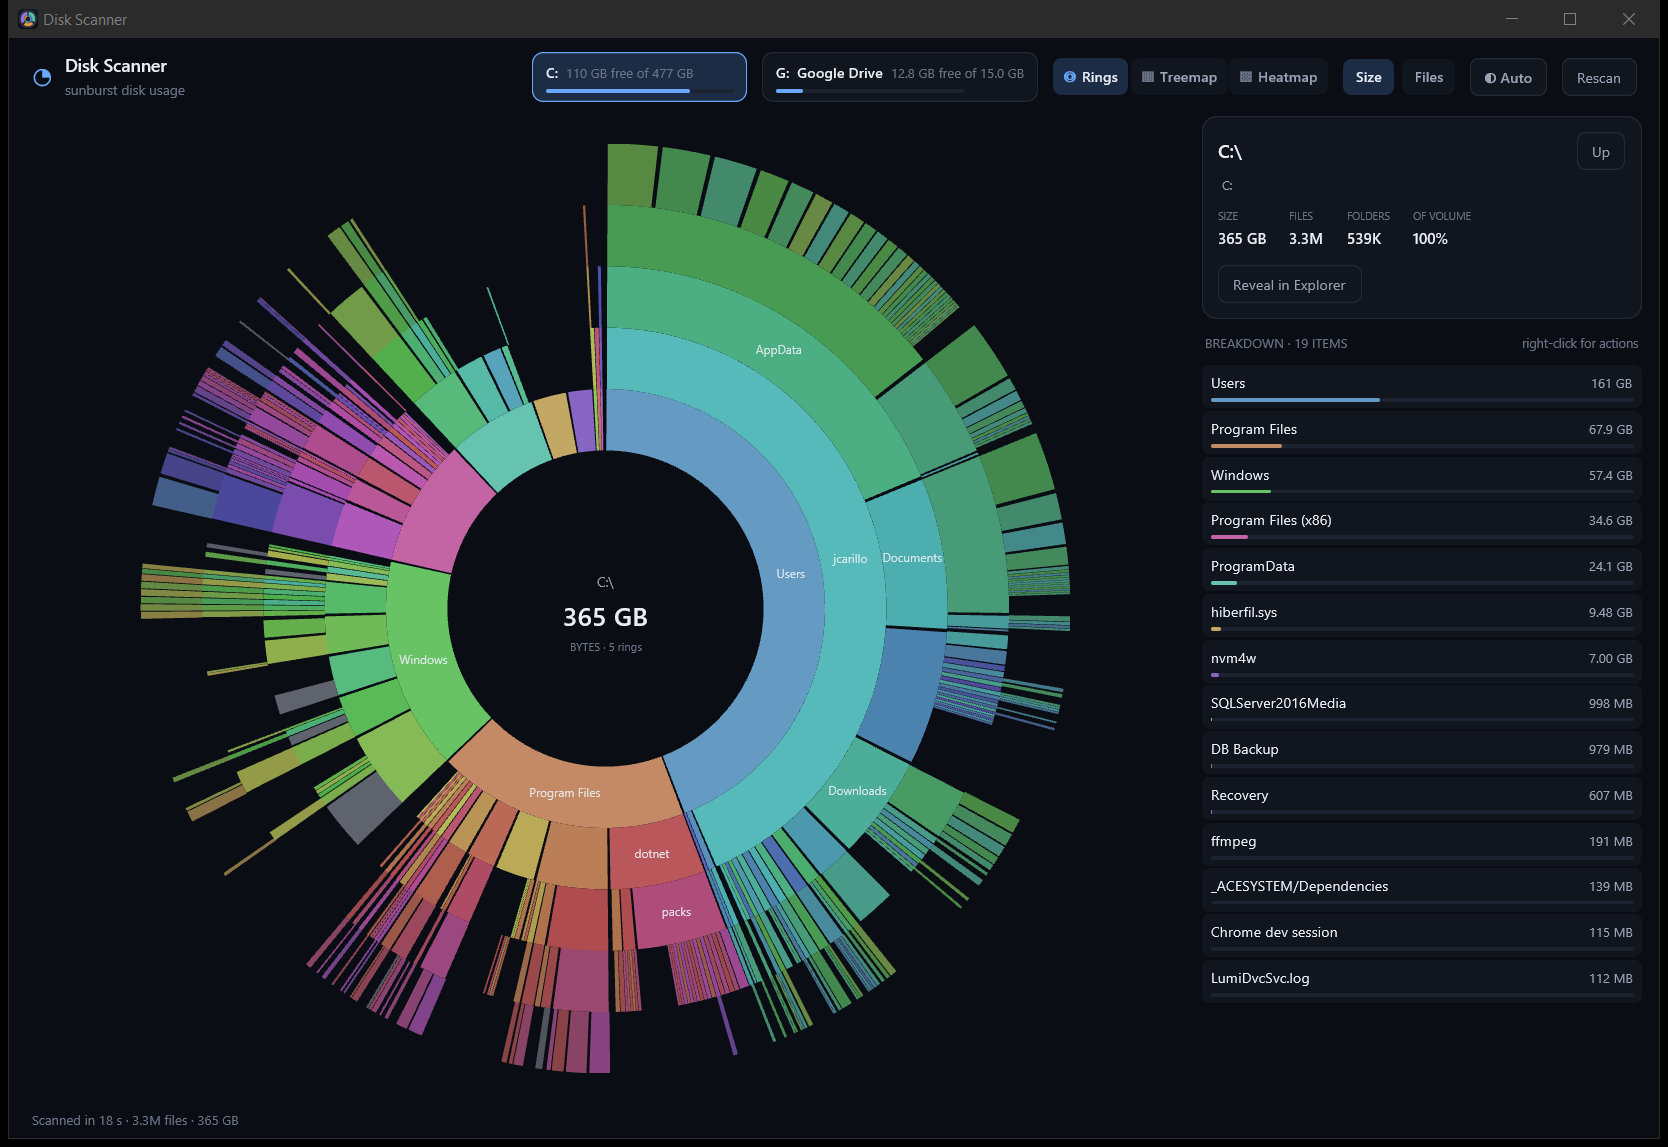
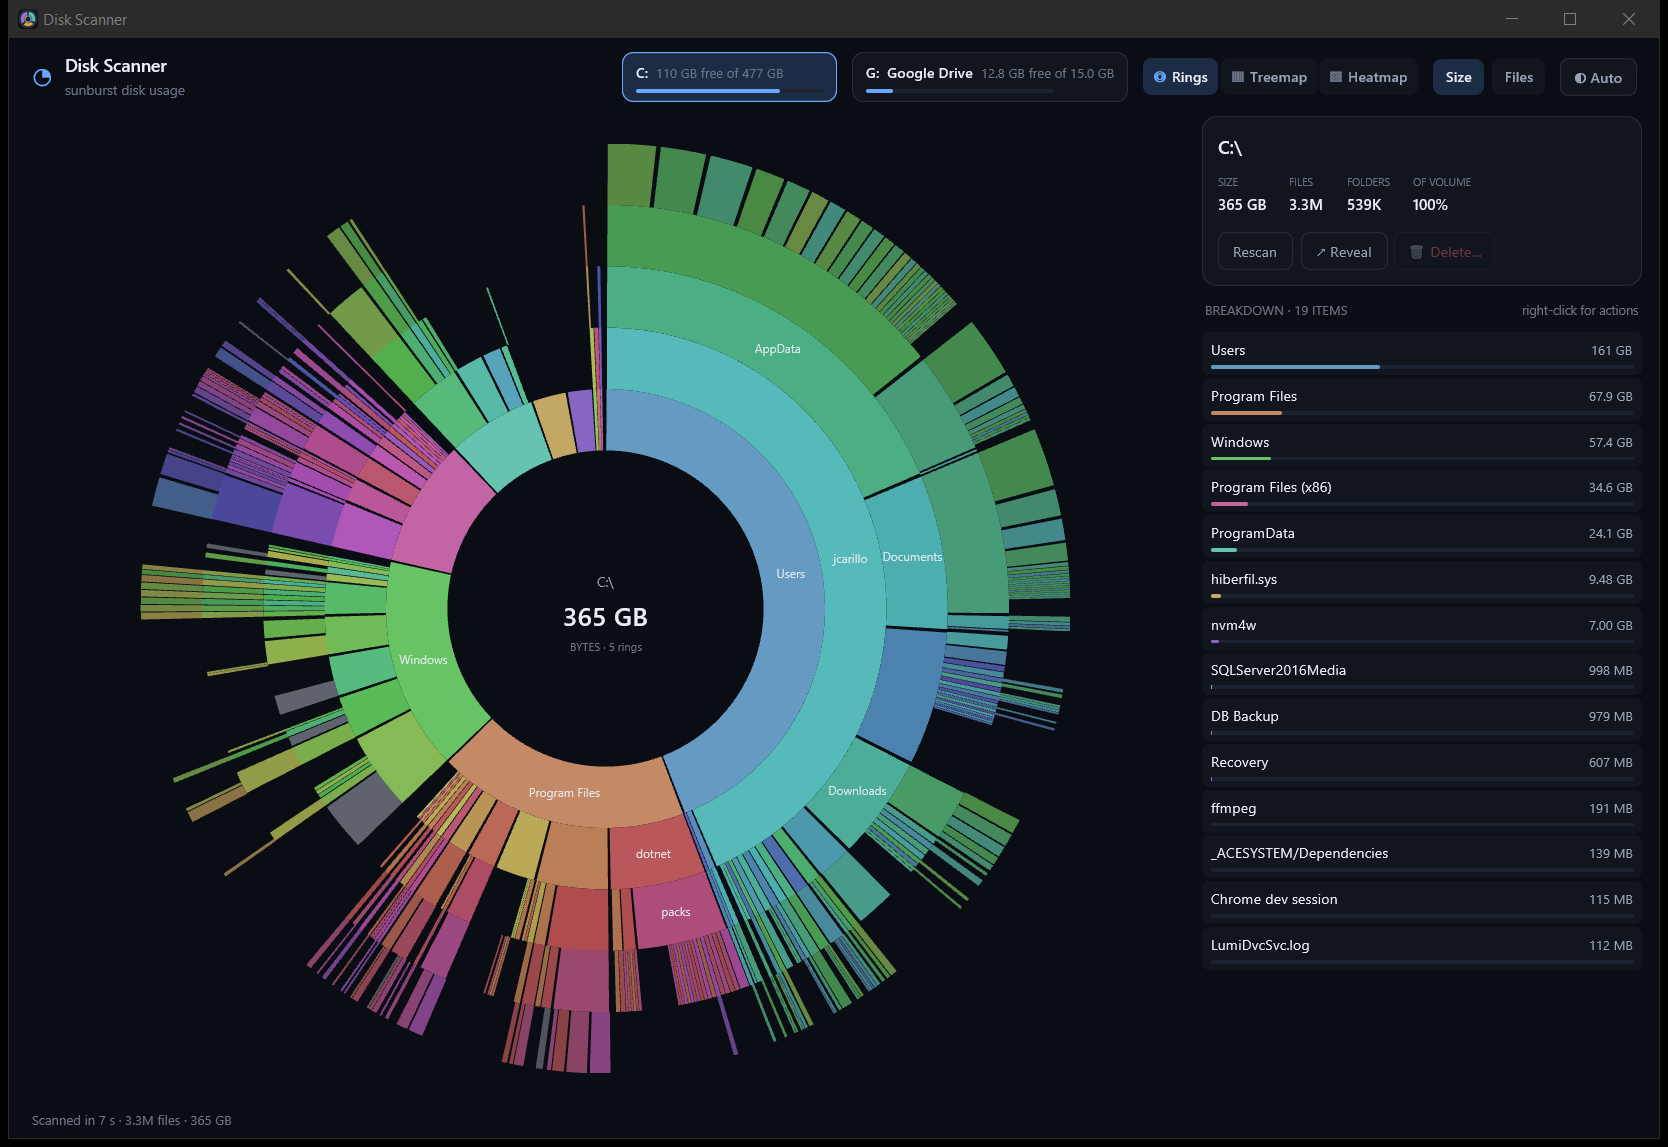
Group folder actions in the focus card
Up moved next to the clickable path, Rescan left the top bar and now sits with Reveal and a new Delete button in one row, and 'of volume' is measured against the scanned root instead of the focused folder.

diff --git a/apps/desktop-gpui/src/app.rs b/apps/desktop-gpui/src/app.rs
@@ -747,9 +747,6 @@ impl DiskApp {
                     .child(self.metric_button("Files", Metric::Files, cx)),
             )
             .child(self.theme_button(cx))
-            .child(self.action_button(self.rescan_label(), cx, |this, cx| {
-                this.rescan_focus(cx);
-            }))
     }
 
     /// The Rescan button says what it will actually do: refresh the folder in
@@ -963,6 +960,61 @@ impl DiskApp {
             .hover(|style| style.bg(theme::surface_alt()).text_color(theme::text()))
             .on_click(cx.listener(move |this, _, _, cx| action(this, cx)))
             .child(label.to_string())
+    }
+
+    /// A borderless button for the focus card: navigation and secondary folder
+    /// actions belong beside the path they act on, not in the global top bar.
+    fn ghost_button(
+        &self,
+        label: &str,
+        enabled: bool,
+        cx: &mut Context<Self>,
+        action: impl Fn(&mut DiskApp, &mut Context<DiskApp>) + 'static,
+    ) -> gpui::Stateful<Div> {
+        let button = div()
+            .id(SharedString::from(format!("ghost-{label}")))
+            .px(px(7.0))
+            .py(px(3.0))
+            .rounded(px(6.0))
+            .text_size(px(11.0))
+            .font_weight(FontWeight::MEDIUM)
+            .text_color(theme::text_dim())
+            .child(label.to_string());
+        if !enabled {
+            return button.opacity(0.34);
+        }
+        button
+            .cursor_pointer()
+            .hover(|style| style.bg(theme::surface_alt()).text_color(theme::text()))
+            .on_click(cx.listener(move |this, _, _, cx| action(this, cx)))
+    }
+
+    /// Same shape as `action_button` but tinted for a destructive action.
+    fn danger_button(
+        &self,
+        label: &str,
+        enabled: bool,
+        cx: &mut Context<Self>,
+        action: impl Fn(&mut DiskApp, &mut Context<DiskApp>) + 'static,
+    ) -> gpui::Stateful<Div> {
+        let button = div()
+            .id(SharedString::from(format!("danger-{label}")))
+            .px(px(9.0))
+            .py(px(5.0))
+            .rounded(px(7.0))
+            .bg(theme::surface())
+            .border_1()
+            .border_color(theme::hairline())
+            .text_size(px(11.5))
+            .text_color(theme::danger())
+            .child(label.to_string());
+        if !enabled {
+            return button.opacity(0.38);
+        }
+        button
+            .cursor_pointer()
+            .hover(|style| style.bg(theme::surface_alt()))
+            .on_click(cx.listener(move |this, _, _, cx| action(this, cx)))
     }
 
     fn chart_area(
@@ -1727,8 +1779,15 @@ impl DiskApp {
         };
         let focus = chart.focus.clone();
         let metric = self.metric;
-        let of_total = if chart.total > 0.0 {
-            metric.weight(&focus) / chart.total
+        // `chart.total` is the focused folder itself, so "of volume" has to be
+        // measured against the scanned root instead.
+        let volume = self
+            .tree
+            .as_ref()
+            .map(|tree| metric.weight(tree))
+            .unwrap_or(chart.total);
+        let of_total = if volume > 0.0 {
+            metric.weight(&focus) / volume
         } else {
             0.0
         };
@@ -1850,8 +1909,9 @@ impl DiskApp {
             .flex()
             .flex_col()
             .gap(px(10.0))
-            .child(
-                div()
+            .child({
+                let at_root = focus.path.eq_ignore_ascii_case(&self.last_root);
+                let mut card = div()
                     .flex()
                     .flex_col()
                     .gap(px(3.0))
@@ -1864,7 +1924,7 @@ impl DiskApp {
                         div()
                             .flex()
                             .items_center()
-                            .justify_between()
+                            .gap(px(6.0))
                             .child(
                                 div()
                                     .flex_1()
@@ -1873,32 +1933,66 @@ impl DiskApp {
                                     .text_size(px(15.0))
                                     .font_weight(FontWeight::SEMIBOLD)
                                     .child(focus.name.clone()),
-                            )
-                            .child(self.action_button("Up", cx, |this, cx| this.go_up(cx))),
-                    )
-                    .child(self.path_crumbs(&focus.path, cx))
-                    .child(
+                            ),
+                    );
+                // At the scan root the title already says where you are and
+                // there is nowhere to go up to, so the path row earns nothing.
+                if !at_root {
+                    card = card.child(
                         div()
-                            .mt(px(6.0))
+                            .mt(px(2.0))
                             .flex()
-                            .gap(px(18.0))
-                            .child(stat("SIZE", theme::format_bytes(focus.size)))
-                            .child(stat("FILES", theme::format_count(focus.files)))
-                            .child(stat("FOLDERS", theme::format_count(focus.dirs)))
-                            .child(stat("OF VOLUME", theme::format_percent(of_total as f64))),
-                    )
-                    .child(
-                        div().mt(px(8.0)).flex().gap(px(6.0)).child(self.action_button(
-                            "Reveal in Explorer",
+                            .items_center()
+                            .gap(px(6.0))
+                            .child(self.ghost_button("↑ Up", true, cx, |this, cx| this.go_up(cx)))
+                            .child(
+                                div()
+                                    .flex_1()
+                                    .min_w_0()
+                                    .child(self.path_crumbs(&focus.path, cx)),
+                            ),
+                    );
+                }
+                card.child(
+                    div()
+                        .mt(px(6.0))
+                        .flex()
+                        .gap(px(18.0))
+                        .child(stat("SIZE", theme::format_bytes(focus.size)))
+                        .child(stat("FILES", theme::format_count(focus.files)))
+                        .child(stat("FOLDERS", theme::format_count(focus.dirs)))
+                        .child(stat("OF VOLUME", theme::format_percent(of_total as f64))),
+                )
+                .child(
+                    div()
+                        .mt(px(9.0))
+                        .flex()
+                        .items_center()
+                        .gap(px(6.0))
+                        .child(self.action_button(self.rescan_label(), cx, |this, cx| {
+                            this.rescan_focus(cx);
+                        }))
+                        .child(self.action_button("↗ Reveal", cx, |this, _| {
+                            if let Some(focus) = this.focus() {
+                                crate::sys::reveal(&focus.path, focus.is_dir());
+                            }
+                        }))
+                        .child(self.danger_button(
+                            "🗑 Delete…",
+                            self.focus().is_some_and(|focus| {
+                                focus.kind != Kind::Other
+                                    && !focus.path.is_empty()
+                                    && !focus.path.eq_ignore_ascii_case(&self.last_root)
+                            }),
                             cx,
-                            |this, _| {
+                            |this, cx| {
                                 if let Some(focus) = this.focus() {
-                                    crate::sys::reveal(&focus.path, focus.is_dir());
+                                    this.ask_delete(focus, cx);
                                 }
                             },
                         )),
-                    ),
-            )
+                )
+            })
             .child(
                 div()
                     .flex()

diff --git a/README.md b/README.md
@@ -38,9 +38,13 @@ level at once, sized by bytes or by file count, in the spirit of the classic Sca
   underneath.
 - **Live progress** while scanning (files, bytes, current path) plus per-volume free space
   in the top bar.
+- **Focus card actions**: everything that acts on the open folder lives beside its name — the
+  `↑ Up` button next to the clickable path, then *Rescan folder*, *↗ Reveal* and *🗑 Delete…*
+  in one row. The top bar keeps only global controls (volumes, view, metric, theme).
 - **Rescan what you are looking at**: inside a folder the *Rescan folder* button (or
-  `F5` / `Ctrl+R`) re-walks just that subtree, marks the buttons, and pushes the size
-  difference back through the ancestors instead of re-reading the whole volume.
+  `F5` / `Ctrl+R`) re-walks just that subtree and pushes the size difference back through the
+  ancestors instead of re-reading the whole volume; at the root the same button re-walks the
+  volume.
 - **Volume switching never rescans or blanks out**: a volume already walked in this session
   is painted from memory the instant you click its chip; only a volume you have never
   scanned starts a walk. Refreshing is always explicit (`F5` / `Ctrl+R` / *Rescan*).
